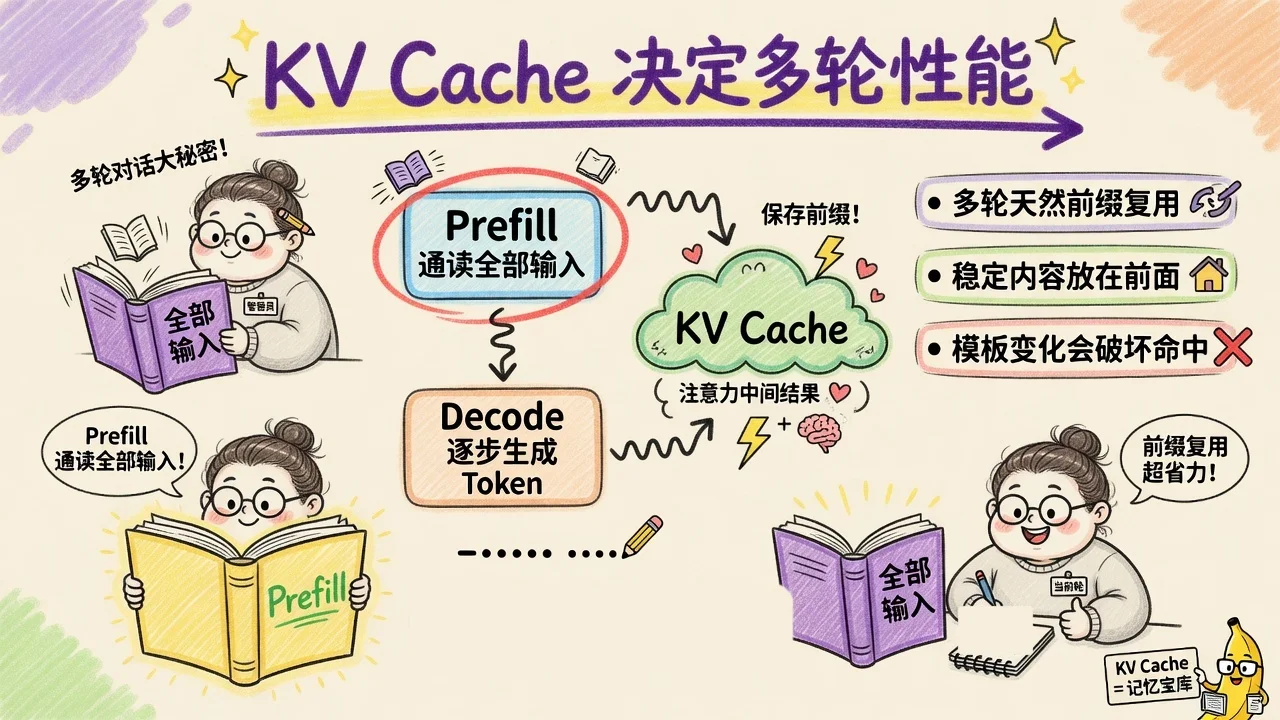
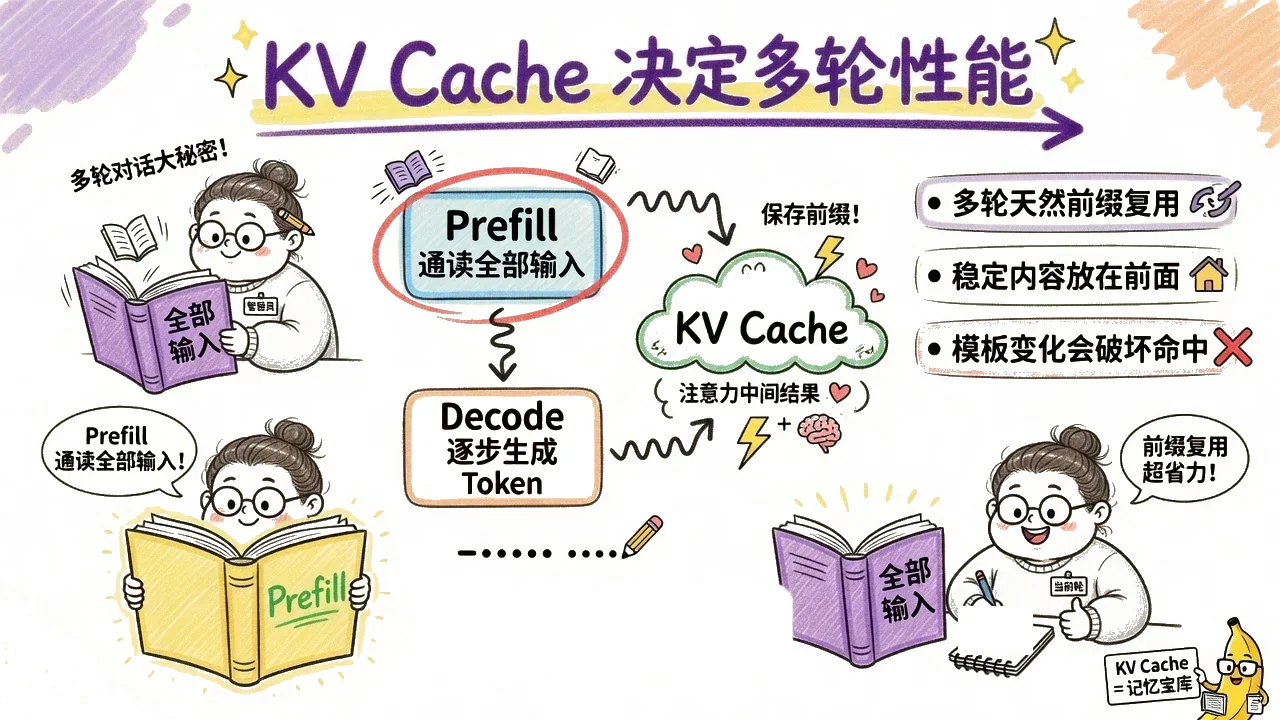
Refactor code structure for improved readability and maintainability

diff --git a/.agents/skills/article-infographic/SKILL.md b/.agents/skills/article-infographic/SKILL.md
@@ -50,6 +50,9 @@ Sketch lines, rough strokes, cartoon simplicity
 No realism, no photorealistic shading, no 3D rendering
 Think: doodle / crayon / marker / pastel look
 Canvas format: landscape 16:9.
+Canvas background MUST be clean pure white or cool light gray (#FFFFFF or #F7F8FA).
+Do NOT use yellow, cream, beige, ivory, parchment, kraft paper, or any warm-tinted paper background.
+Colored sticky notes and characters may use yellow; the canvas itself must stay white.
 Use nano banana pro mode to render the illustration.
 Use minimal but expressive cartoon elements to enhance memorability:
 small icons, symbols, cute characters
@@ -77,6 +80,7 @@ Do NOT generate copyrighted characters directly.
 Do NOT turn the infographic into an essay.
 Do NOT fill the canvas fully; always keep meaningful whitespace.
 Do NOT output long paragraphs.
+Do NOT use a yellow, cream, beige, or warm paper background. The canvas background must be white.
 
 TASK
 Create a cartoon-style hand-drawn infographic with the rules above, using nano banana pro, based on the following content:
